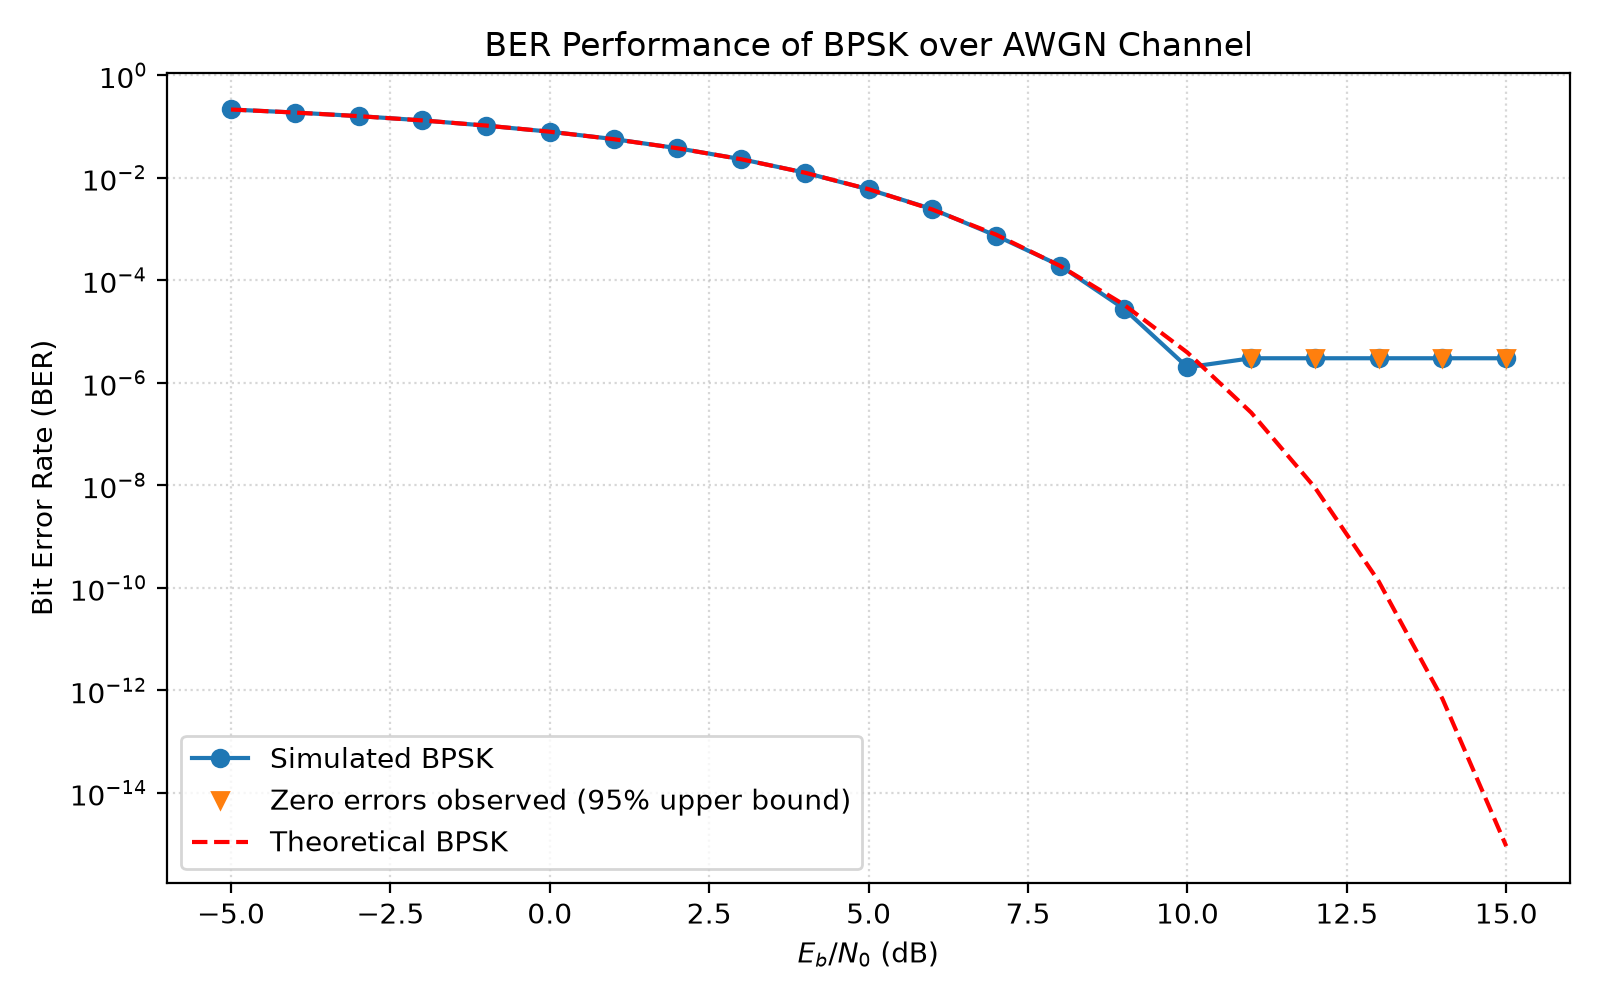
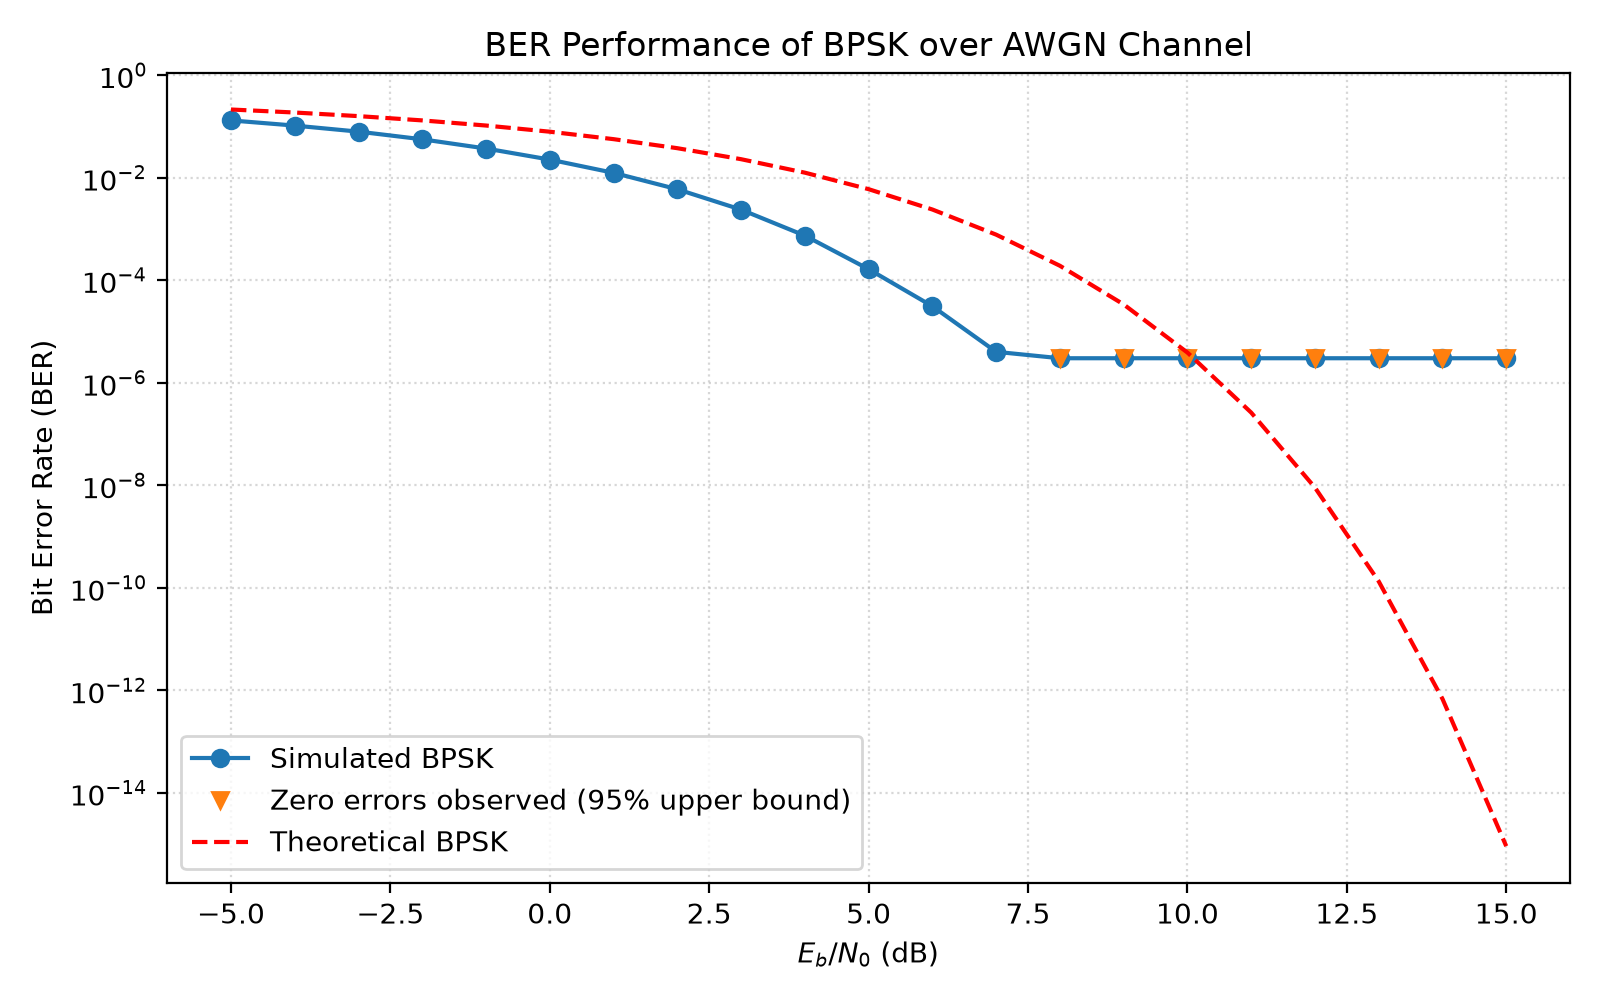
Updated pulse carving onto sine wave, instead of symbol-based

diff --git a/communication_simulation/communication_simulation/tests/test_simulation.py b/communication_simulation/communication_simulation/tests/test_simulation.py
@@ -2,6 +2,7 @@ import unittest
 from pathlib import Path
 import sys
 
+import matplotlib.pyplot as plt
 import numpy as np
 
 # Add the project root so this file can be run directly from the tests folder
@@ -24,12 +25,30 @@ class TestCommunicationSimulation(unittest.TestCase):
         self,
     ) -> None:
         bits = np.array([0, 1, 1, 0, 1])
-        np.testing.assert_array_equal(bpsk.demodulate(bpsk.modulate(bits)), bits)
+        samples_per_carrier = 16
+        carrier_frequency = 1_000.0
+        sampling_frequency = carrier_frequency * samples_per_carrier
+
+        signal = bpsk.modulate(
+            bits,
+            samples_per_carrier,
+            carrier_frequency,
+            sampling_frequency,
+        )
+        received_bits = bpsk.demodulate(
+            signal,
+            carrier_frequency,
+            sampling_frequency,
+            samples_per_carrier,
+        )
+
+        np.testing.assert_array_equal(received_bits, bits)
 
     # Test that each bit pair uses the documented QPSK phase mapping
     def test_qpsk_modulation_uses_expected_phase_mapping(
         self,
     ) -> None:
+        
         bits = np.array([0, 0, 0, 1, 1, 0, 1, 1])
 
         signal = qpsk.modulate(
@@ -39,13 +58,61 @@ class TestCommunicationSimulation(unittest.TestCase):
             sampling_frequency=1.0,
         )
 
-        expected = np.repeat(np.sin(np.pi / 4 * np.array([1, 3, 7, 5])), 2)
+        expected = np.repeat(np.cos(np.pi / 4 * np.array([1, 3, 7, 5])), 2)
         np.testing.assert_allclose(signal, expected)
+
+    # Test QPSK demodulation and display the passband and mixed waveforms
+    def test_qpsk_demodulation_round_trip_with_waveforms(
+        self,
+    ) -> None:
+        bits = np.array([0, 0, 0, 1, 1, 0, 1, 1])
+        samples_per_carrier = 16
+        carrier_frequency = 1_000.0
+        sampling_frequency = carrier_frequency * samples_per_carrier
+
+        signal = qpsk.modulate(
+            bits,
+            samples_per_carrier,
+            carrier_frequency,
+            sampling_frequency,
+        )
+        received_bits = qpsk.demodulate(
+        signal,
+        carrier_frequency=carrier_frequency,
+        sampling_frequency=sampling_frequency,
+        samples_per_carrier=samples_per_carrier,
+        )
+
+        np.testing.assert_array_equal(received_bits, bits)
+
+        time = np.arange(signal.size) / sampling_frequency
+        carrier_phase = 2 * np.pi * carrier_frequency * time
+        i_signal = signal * np.cos(carrier_phase)
+        q_signal = -signal * np.sin(carrier_phase)
+
+        fig, axes = plt.subplots(3, 1, sharex=True, figsize=(10, 7))
+        axes[0].plot(time, signal)
+        axes[0].set_title("QPSK signal")
+        axes[0].set_ylabel("Amplitude")
+
+        axes[1].plot(time, i_signal)
+        axes[1].set_title("In-phase mixed signal")
+        axes[1].set_ylabel("Amplitude")
+
+        axes[2].plot(time, q_signal)
+        axes[2].set_title("Quadrature mixed signal")
+        axes[2].set_xlabel("Time (s)")
+        axes[2].set_ylabel("Amplitude")
+
+        fig.tight_layout()
+        plt.show()
+        plt.close(fig)
 
     # Test that the RRC filter is symmetrical and normalised to unit energy
     def test_rrc_taps_are_symmetric_and_unit_energy(
         self,
     ) -> None:
+        
         taps = pulse_shapes.raised_cosine_receiver_filter(alpha=0.35, sps=8, span=8)
         np.testing.assert_allclose(taps, taps[::-1])
         self.assertAlmostEqual(float(np.sum(taps**2)), 1.0)
@@ -54,8 +121,9 @@ class TestCommunicationSimulation(unittest.TestCase):
     def test_noiseless_high_eb_n0_round_trip_has_no_errors(
         self,
     ) -> None:
+        
         result = communication_simulation(
-            np.random.default_rng(12), 1_000, 100.0, 0.35, 8, 8
+            np.random.default_rng(12), 1_000, 100.0, 0.35, 8, 8, "bpsk"
         )
         self.assertEqual(result.bit_errors, 0)
         self.assertEqual(result.ber, 0.0)
@@ -64,8 +132,9 @@ class TestCommunicationSimulation(unittest.TestCase):
     def test_ber_near_theory_at_zero_db(
         self,
     ) -> None:
+        
         result = communication_simulation(
-            np.random.default_rng(3), 100_000, 0.0, 0.35, 8, 8
+            np.random.default_rng(3), 100_000, 0.0, 0.35, 8, 8, "bpsk"
         )
         self.assertAlmostEqual(result.ber, 0.07865, delta=0.01)
 
@@ -73,6 +142,7 @@ class TestCommunicationSimulation(unittest.TestCase):
     def test_zero_error_measurement_has_upper_bound(
         self,
     ) -> None:
+        
         measurement = BerMeasurement(bit_errors=0, total_bits=100_000)
         self.assertEqual(measurement.zero_error_upper_bound_95, 3e-5)
 
@@ -80,6 +150,7 @@ class TestCommunicationSimulation(unittest.TestCase):
     def test_metrics_reject_mismatched_array_shapes(
         self,
     ) -> None:
+        
         with self.assertRaises(ValueError):
             calc_error(np.array([0, 1]), np.array([0]))
 

diff --git a/communication_simulation/communication_simulation/simulation.py b/communication_simulation/communication_simulation/simulation.py
@@ -2,8 +2,14 @@
 from channels import add_noise
 from metrics import BerMeasurement, calc_error
 import numpy as np
-import modulation.bpsk as bpsk
 import modulation.pulse_shapes as pulse_shapes
+import modulation.bpsk as bpsk
+import modulation.qpsk as qpsk
+
+MODULATION_SCHEMES = {
+    "bpsk": bpsk,
+    "qpsk": qpsk,
+}
 
 def communication_simulation(
     rng: np.random.Generator,
@@ -12,15 +18,27 @@ def communication_simulation(
     alpha: float,
     sps: int,
     span: int,
+    modulation: str,
+    samples_per_carrier: int = 16,
+    carrier_frequency: float = 1_000.0,
+    sampling_frequency: float = 16_000.0,
 ) -> BerMeasurement:
     
     random_bits = gen_bits(rng, size)
-    signal = bpsk.modulate(random_bits)
-    shaped_signal = pulse_shapes.apply_tx_pulse_shaping(signal, alpha, sps, span)
-    noisy_signal = add_noise(shaped_signal, eb_n0_db, rng)
-    filtered_signal = pulse_shapes.apply_rx_matched_filter(noisy_signal, alpha, sps, span)
-    downsampled_signal = pulse_shapes.signal_downsample(filtered_signal, size, sps, span)
-    received_bits = bpsk.demodulate(downsampled_signal)
+
+    match modulation:
+        case "bpsk":
+            signal = bpsk.modulate(random_bits, samples_per_carrier, carrier_frequency, sampling_frequency)
+            noisy_signal = add_noise(signal, eb_n0_db, rng)
+            received_bits = bpsk.demodulate(noisy_signal, carrier_frequency, sampling_frequency, samples_per_carrier)
+
+        case "qpsk":
+            signal = qpsk.modulate(random_bits, samples_per_carrier, carrier_frequency, sampling_frequency)
+            noisy_signal = add_noise(signal, eb_n0_db, rng)
+            received_bits = qpsk.demodulate(noisy_signal, carrier_frequency, sampling_frequency, samples_per_carrier)
+
+        case _:
+            raise ValueError(f"Unsupported modulation scheme: {modulation}")
 
     return calc_error(random_bits, received_bits)
 
@@ -33,15 +51,8 @@ def gen_bits(
 
     return rng.integers(0, 2, size=size)
 
-def gen_carrier_wave(
-    carrier_frequency: float,
-    sampling_frequency: float,
-    sampling_period: float
-    ) -> np.ndarray:
 
-    total_samples = int(sampling_period * sampling_frequency)
-    time_period = np.arange(total_samples) / sampling_frequency
-    sine_wave = np.sin(2 * np.pi * carrier_frequency * time_period)
 
-    return sine_wave
+
+
 

diff --git a/communication_simulation/communication_simulation/modulation/bpsk.py b/communication_simulation/communication_simulation/modulation/bpsk.py
@@ -1,15 +1,26 @@
 # modulation/bpsk.py
 import numpy as np
+from .pulse_shapes import low_pass_filter
 
 # ------------------------------ PRE-TRANSMISSION SETUP ------------------------------
 
 # Convert the bits into a BPSK signal
 def modulate(
     bit_array: np.ndarray,
+    samples_per_carrier: int,
+    carrier_frequency: float,
+    sampling_frequency: float,
 ) -> np.ndarray:
-    
-    symbols = (bit_array * 2) - 1
-    return symbols
+
+    # Convert bits into BPSK phase shifts
+
+    phases = np.where(bit_array == 0, np.pi, 0.0)
+
+    # Generate a sine wave with phase shifts
+    upsampled_phases = np.repeat(phases, samples_per_carrier)
+    time = np.arange(upsampled_phases.size) / sampling_frequency
+
+    return np.cos(2 * np.pi * carrier_frequency * time + upsampled_phases)
 
 
 # ------------------------------ POST-TRANSMISSION PROCESSING ------------------------------
@@ -17,6 +28,26 @@ def modulate(
 # Convert the signal back to bits
 def demodulate(
     signal: np.ndarray,
+    carrier_frequency: float,
+    sampling_frequency: float,
+    samples_per_carrier: int,
 ) -> np.ndarray:
-    
-    return np.where(signal < 0, 0, 1)
+
+    # Recreate the carrier used by the transmitter
+    time = np.arange(signal.size) / sampling_frequency
+    carrier = np.cos(2 * np.pi * carrier_frequency * time)
+
+    mixed_signal = signal * carrier
+
+    filtered_signal = low_pass_filter(mixed_signal, samples_per_carrier)
+
+    # Take one decision sample from the centre of every bit period
+    symbol_indices = np.arange(
+        samples_per_carrier // 2,
+        signal.size,
+        samples_per_carrier,
+    )
+    symbols = filtered_signal[symbol_indices]
+
+    # Negative corresponds to bit 0; positive corresponds to bit 1
+    return np.where(symbols < 0, 0, 1)

diff --git a/communication_simulation/communication_simulation/modulation/qpsk.py b/communication_simulation/communication_simulation/modulation/qpsk.py
@@ -1,5 +1,6 @@
 # modulation/qpsk.py
 import numpy as np
+from .pulse_shapes import low_pass_filter
 
 # ------------------------------ PRE-TRANSMISSION SETUP ------------------------------
 
@@ -29,7 +30,7 @@ def modulate(
     upsampled_phases = np.repeat(phases, samples_per_carrier)
     time = np.arange(upsampled_phases.size) / sampling_frequency
 
-    return np.sin(2 * np.pi * carrier_frequency * time + upsampled_phases)
+    return np.cos(2 * np.pi * carrier_frequency * time + upsampled_phases)
 
 
 # ------------------------------ POST-TRANSMISSION PROCESSING ------------------------------
@@ -37,5 +38,28 @@ def modulate(
 # Convert the signal back to bits
 def demodulate(
     signal: np.ndarray,
+    carrier_frequency: float,
+    sampling_frequency: float,
+    samples_per_carrier: int
 ) -> np.ndarray:
-    pass
+    # Mix the received signal with coherent in-phase and quadrature carriers
+    time = np.arange(signal.size) / sampling_frequency
+    carrier_phase = 2 * np.pi * carrier_frequency * time
+
+    i_signal = signal * np.cos(carrier_phase)
+    q_signal = -signal * np.sin(carrier_phase)
+
+    filtered_i_signal = low_pass_filter(i_signal, samples_per_carrier)
+    filtered_q_signal = low_pass_filter(q_signal, samples_per_carrier)
+
+    # Take one I/Q decision sample from the centre of each symbol period
+    symbol_indices = np.arange(samples_per_carrier // 2, signal.size, samples_per_carrier)
+
+    i_symbols = filtered_i_signal[symbol_indices]
+    q_symbols = filtered_q_signal[symbol_indices]
+
+    bits = np.empty(i_symbols.size * 2, dtype=int)
+    bits[0::2] = q_symbols < 0
+    bits[1::2] = i_symbols < 0
+
+    return bits

diff --git a/communication_simulation/communication_simulation/modulation/pulse_shapes.py b/communication_simulation/communication_simulation/modulation/pulse_shapes.py
@@ -80,3 +80,17 @@ def apply_rx_matched_filter(
     rx_filtered_signal = np.convolve(noisy_signal, rrc_taps, mode='full')
 
     return rx_filtered_signal
+
+
+def low_pass_filter(
+        unfiltered_signal: np.ndarray,
+        samples_per_carrier: int
+) -> np.ndarray:
+    
+    # Define the averaging window size
+    window_size = samples_per_carrier // 2
+    kernel = np.ones(window_size) / window_size
+
+    filtered_signal = np.convolve(unfiltered_signal, kernel, mode='same')
+
+    return filtered_signal

diff --git a/communication_simulation/communication_simulation/main.py b/communication_simulation/communication_simulation/main.py
@@ -20,9 +20,7 @@ def main():
 
     # Iterate through the SNR range defined in config
     for eb_n0_db in cfg.snr_range:
-        measurement = communication_simulation(
-            rng, cfg.SIZE, eb_n0_db, cfg.ALPHA, cfg.SPS, cfg.FILTER_LENGTH
-        )
+        measurement = communication_simulation(rng, cfg.SIZE, eb_n0_db, cfg.ALPHA, cfg.SPS, cfg.FILTER_LENGTH, cfg.MODULATION)
         measurements.append(measurement)
         print(
             f"Eb/N0 = {eb_n0_db:>3} dB: "

diff --git a/communication_simulation/communication_simulation/config.py b/communication_simulation/communication_simulation/config.py
@@ -6,6 +6,7 @@ import numpy as np
 @dataclass(frozen=True)
 class SimConfig:
     # Simulation Parameters
+    MODULATION: str = "qpsk"
     SIZE: int = 1000000
     SEED: int = 2
     
@@ -32,5 +33,5 @@ class SimConfig:
 
     # Carrier Wave Parameters
     CARRIER_FREQUENCY: float = 500.0e6  # 500 MHz
-    SAMPLES_PER_CARRIER: int = 16
+    SAMPLES_PER_CARRIER: int = 8
     SAMPLING_FREQUENCY: int = CARRIER_FREQUENCY * SAMPLES_PER_CARRIER
